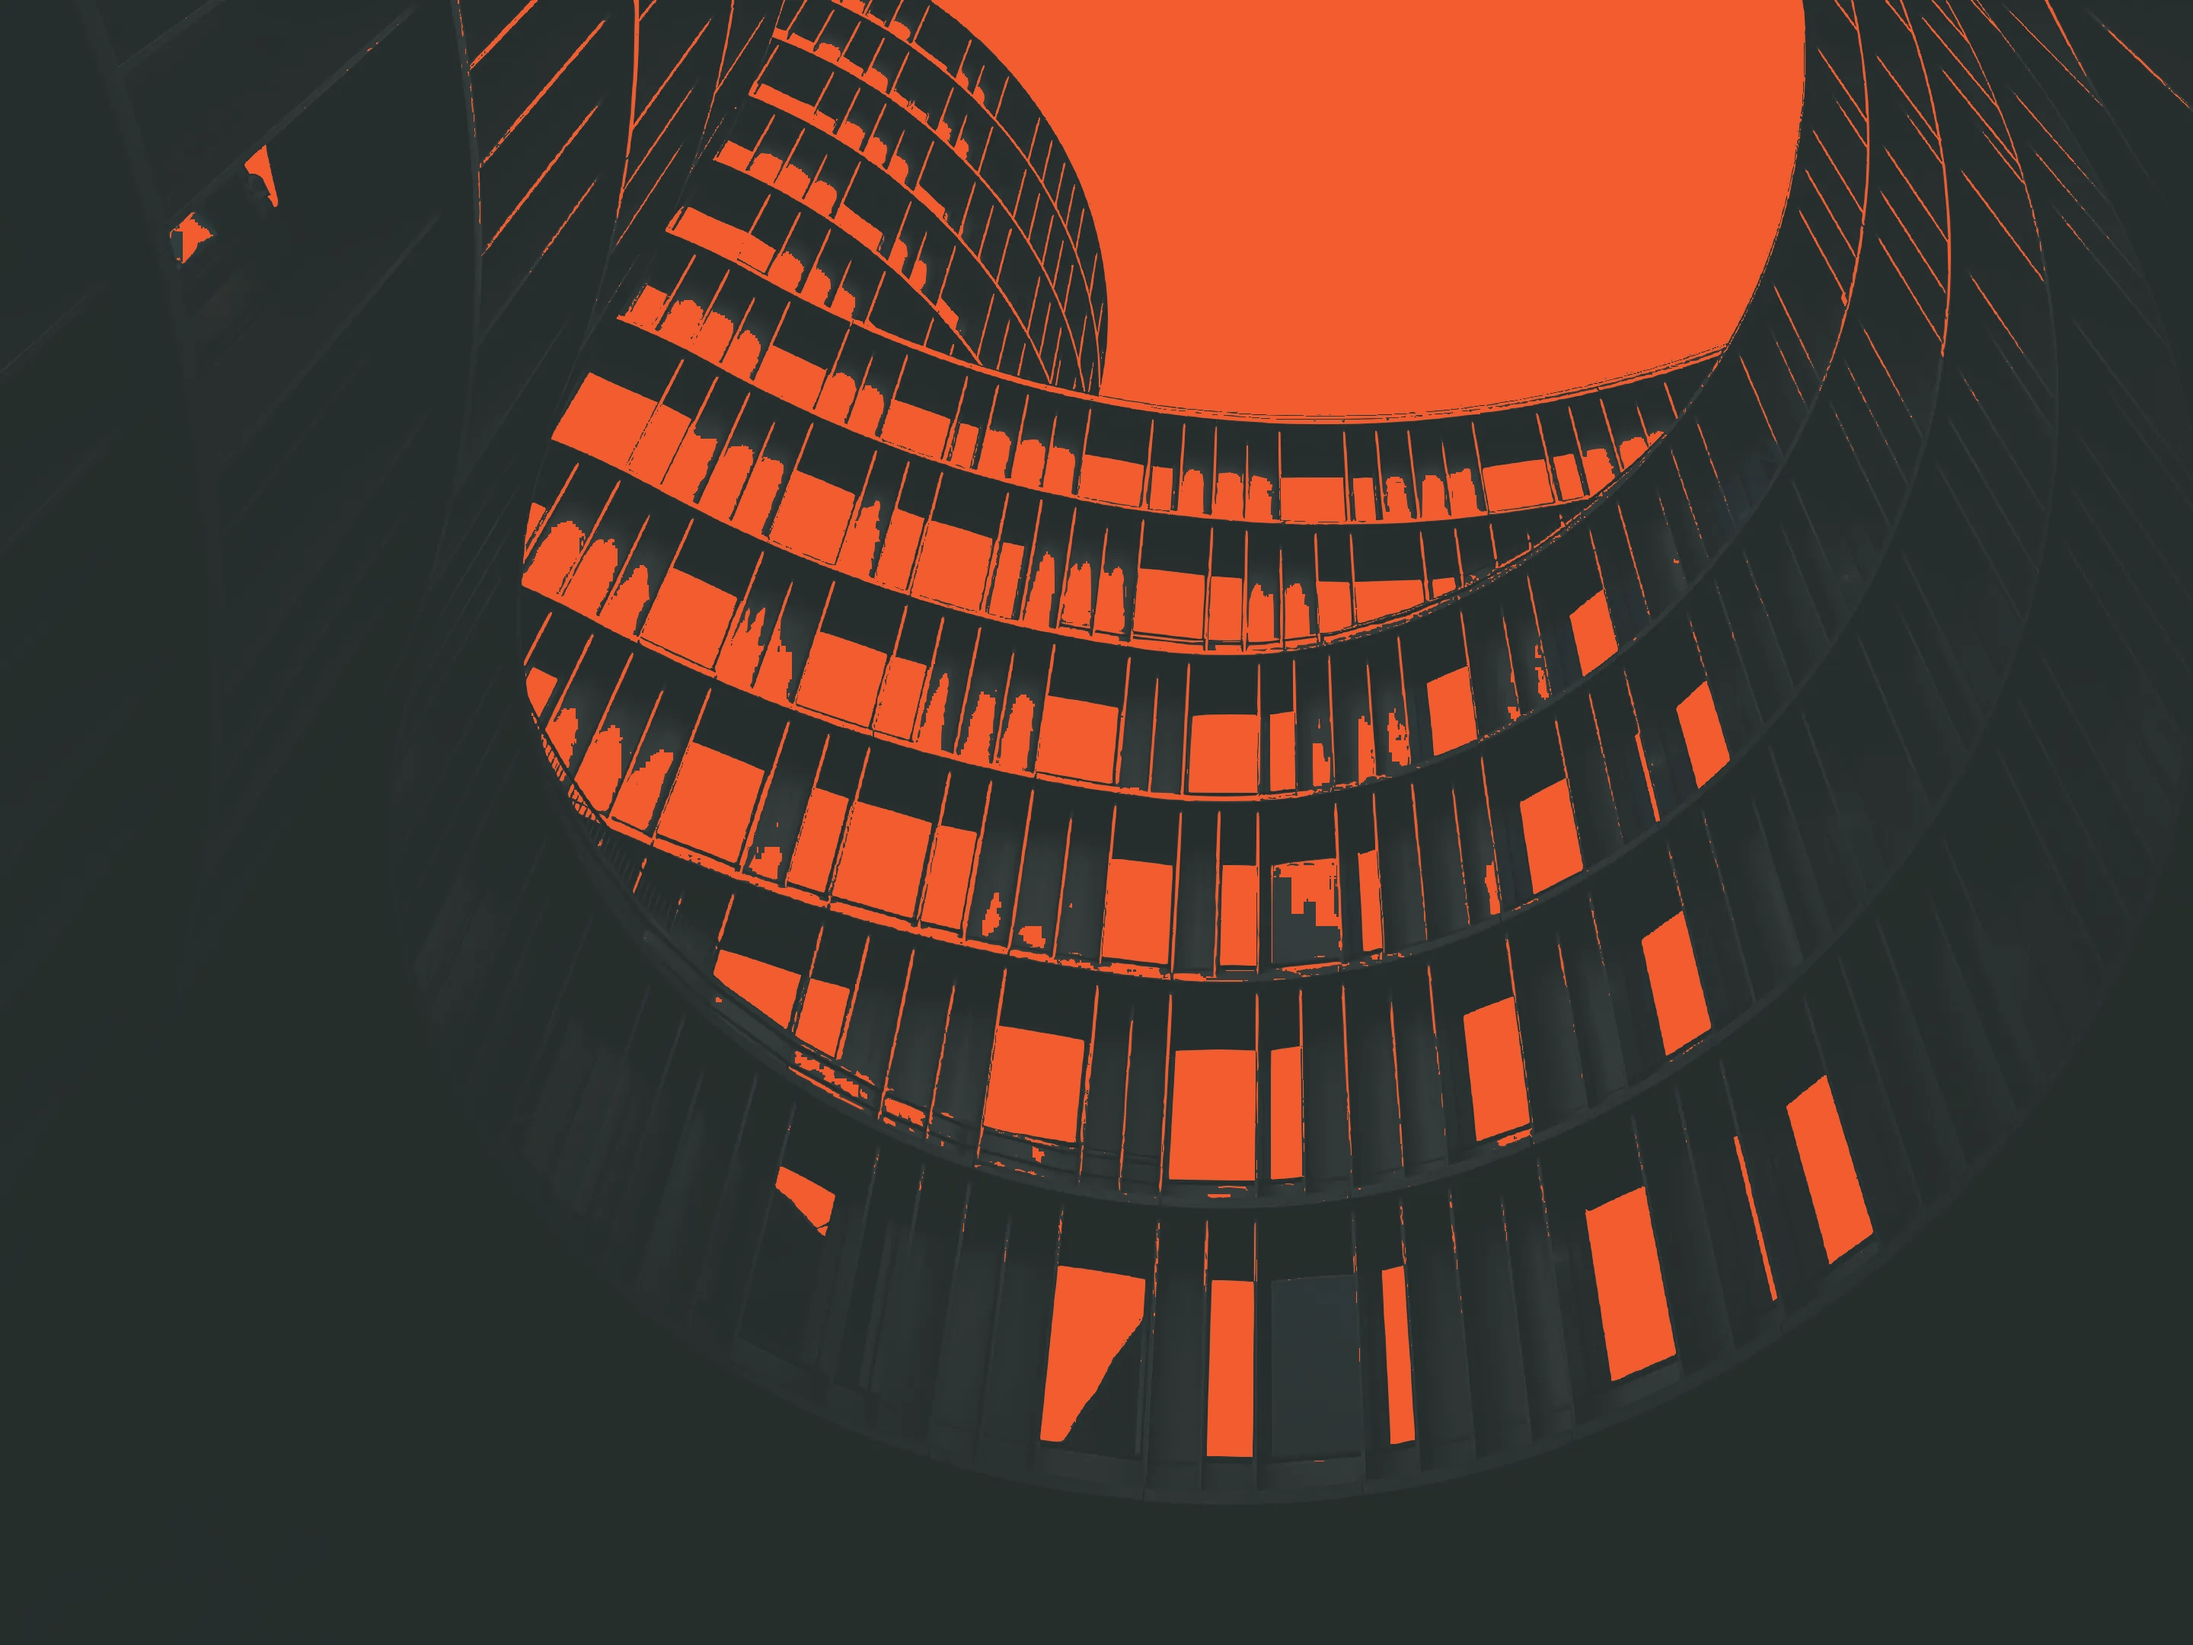
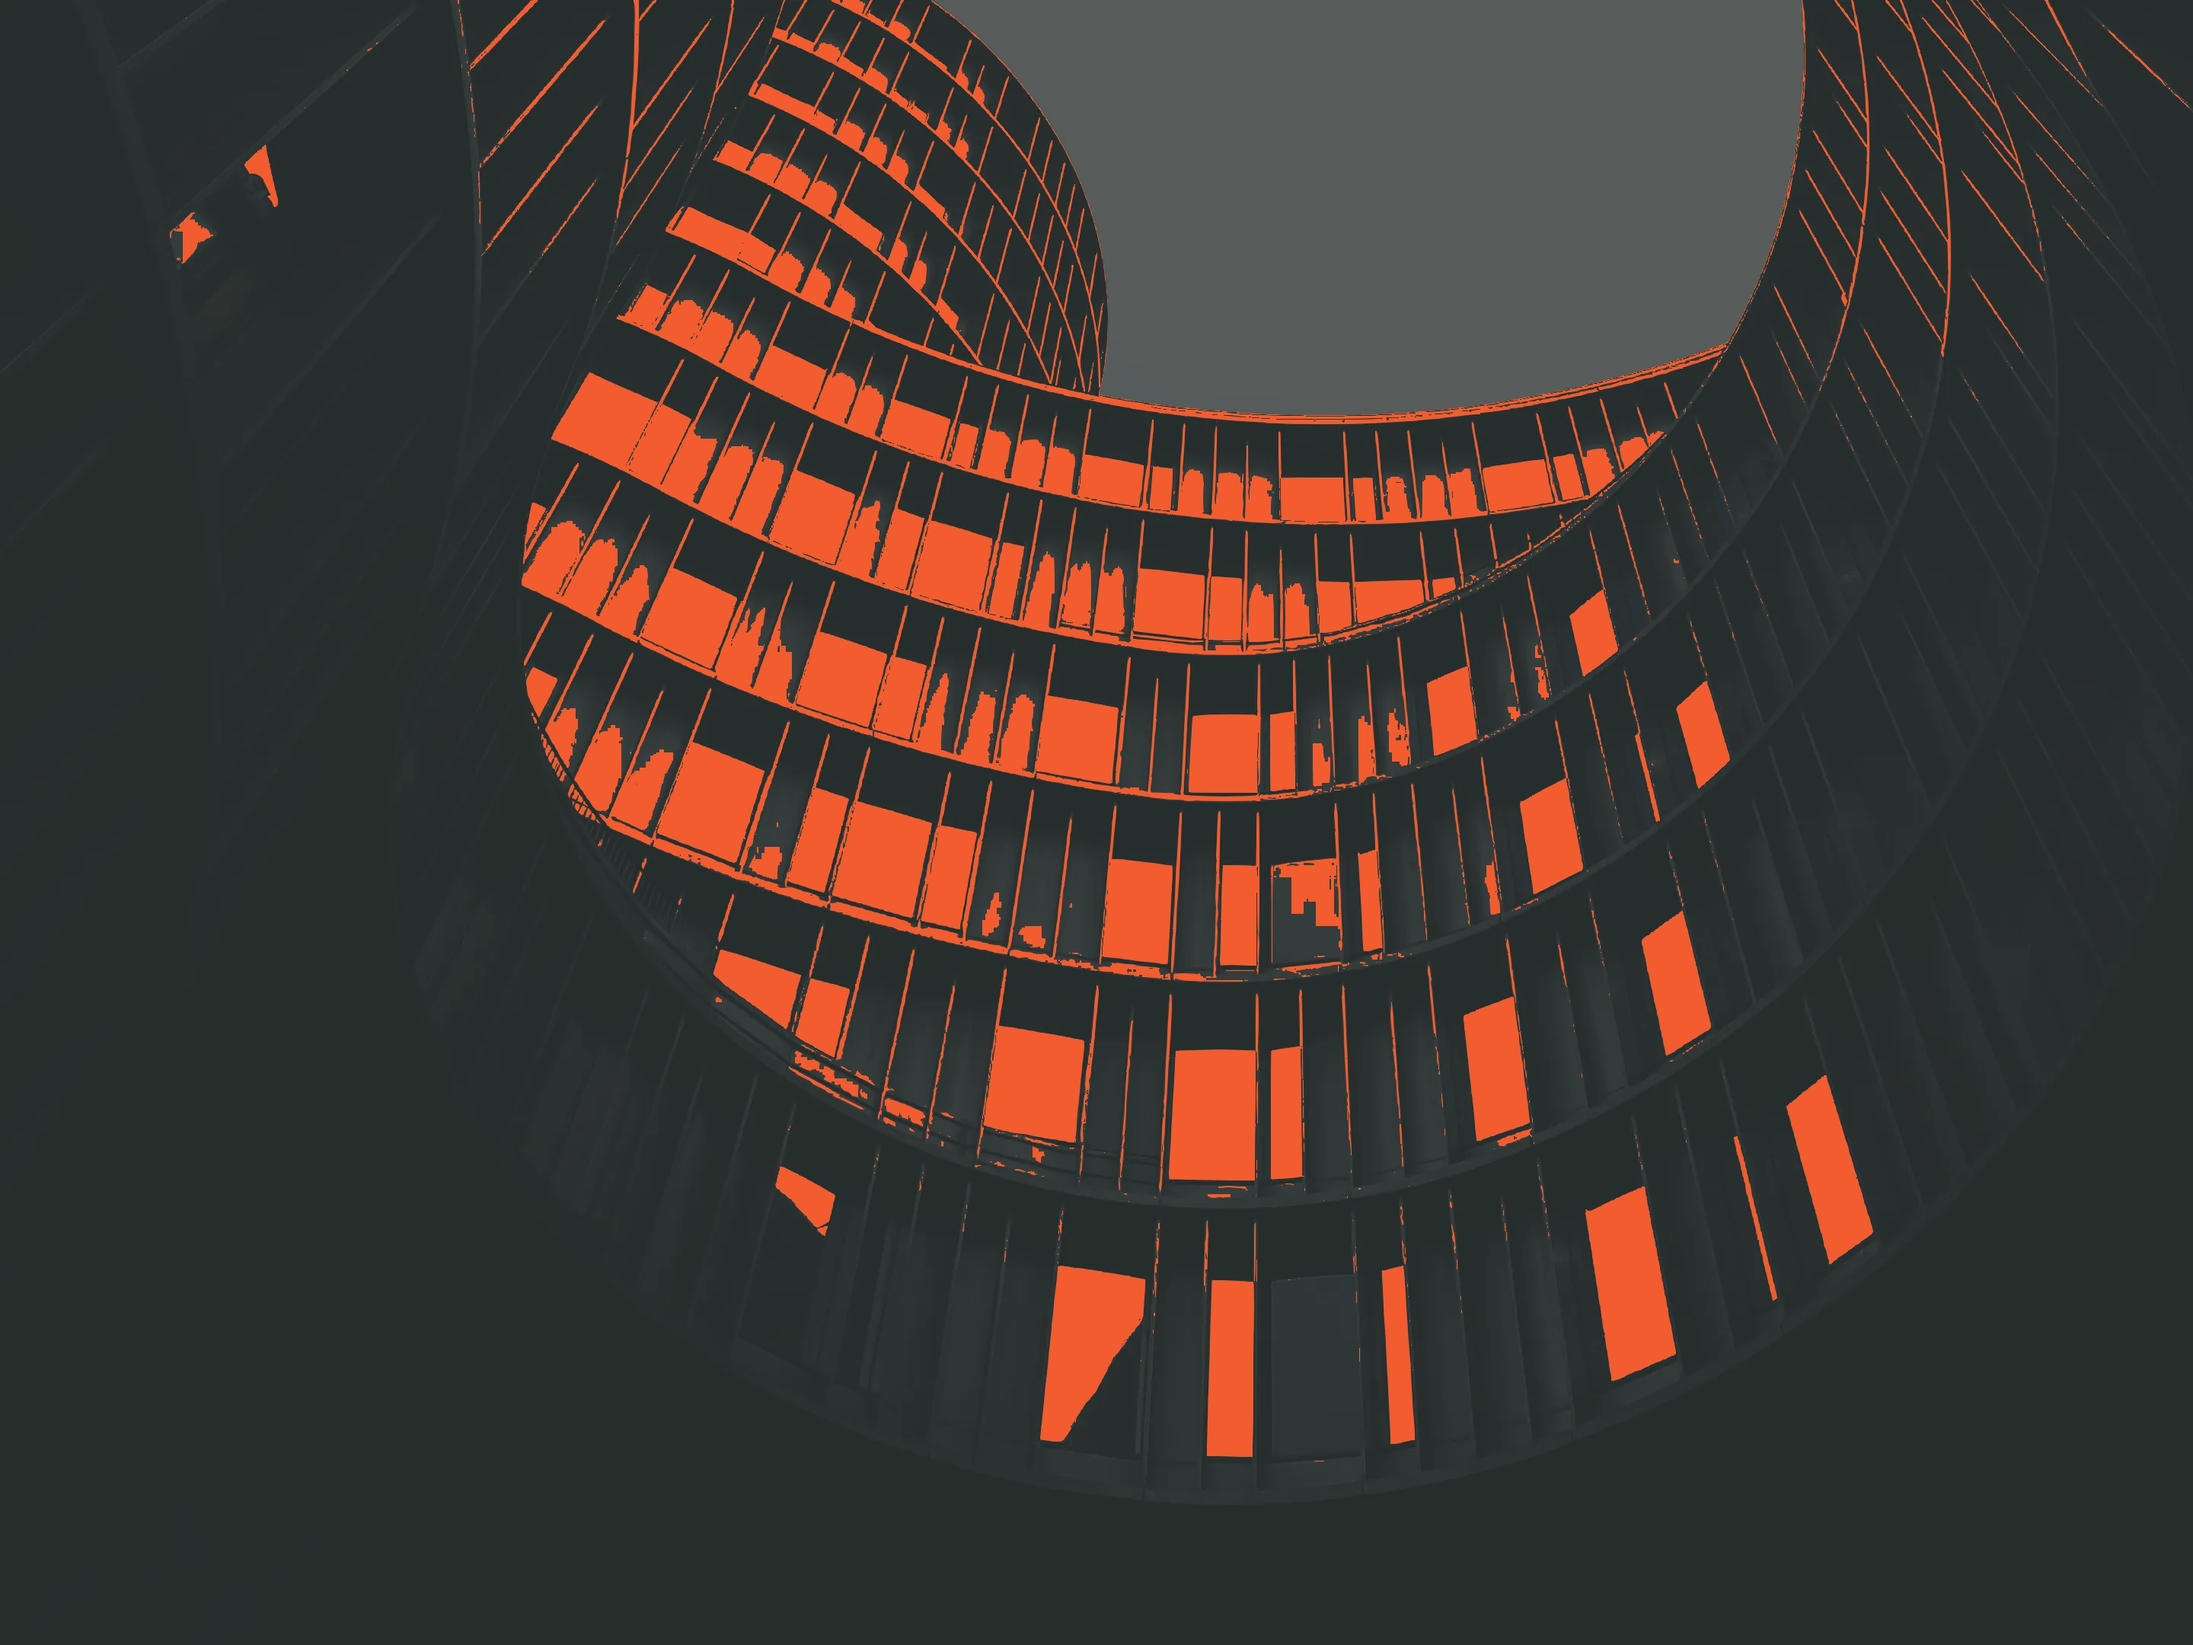
background

Changed region(s): [[0.4375, 0.0, 0.8438, 0.2792]]

diff --git a/_sass/blocks/_collab-a.scss b/_sass/blocks/_collab-a.scss
@@ -8,8 +8,8 @@
 
 // Ensure full height for collab-a layout
 body.page--collab-a {
-  height: 100%;
   min-height: 100%;
+  height: auto;
   margin: 0;
   display: flex;
   flex-direction: column;
@@ -26,7 +26,7 @@ body.page--collab-a {
   font-family: 'Poppins', sans-serif;
   letter-spacing: 0;
   background-color: #000;
-  background-image: url('/assets/img/hero/default-orange.webp');
+  background-image: url('/assets/img/hero/default-orange-few.webp');
   background-size: cover;
   background-position: center;
   background-repeat: no-repeat;
@@ -34,6 +34,7 @@ body.page--collab-a {
   overflow: visible;
   min-height: 100vh;
   min-height: 750px;
+  height: auto;
   flex: 1;
   box-sizing: border-box;
 
@@ -44,6 +45,9 @@ body.page--collab-a {
     left: 0;
     right: 0;
     bottom: 0;
+    width: 100%;
+    height: 100%;
+    min-height: 100%;
     background-color: rgba(255, 255, 255, 0);
     pointer-events: none;
     z-index: 0;
@@ -432,10 +436,37 @@ body.page--collab-a {
 
 /* Container queries (flex rows) */
 @container collab-a (width < 790px) {
+  .collab-a-header {
+    display: none;
+  }
+  
+  .collab-a-img2 {
+    left: 50%;
+    transform: translateX(-50%);
+    width: auto;
+    max-width: 255.5px;
+    top: 23.1px;
+  }
+  
+  .collab-a {
+    min-height: auto !important;
+    height: auto !important;
+  }
+  
+  .collab-a::before {
+    position: absolute;
+    top: 0;
+    left: 0;
+    right: 0;
+    bottom: 0;
+    width: 100%;
+    height: 100%;
+    min-height: 100%;
+  }
 
   .collab-a-row1 {
     margin-left: 0;
-    margin-top: 80px;
+    margin-top: 30px;
     flex-direction: row;
     align-items: flex-start;
     gap: 0;
@@ -455,13 +486,14 @@ body.page--collab-a {
 
   .footer-menu {
     flex-direction: column;
-    align-items: flex-start;
+    align-items: center;
     gap: 16.8px;
   }
   
   .home-page-menu {
-    margin-left: 40px;
-    margin-right: 0;
+    margin-left: auto;
+    margin-right: auto;
+    align-items: center;
   }
   
   .home-page-menu .collab-a-text-a:nth-child(3),
@@ -470,25 +502,36 @@ body.page--collab-a {
   }
   
   .collab-a-social-icons {
-    margin-left: 40px;
-    margin-right: 40px;
+    margin-left: auto;
+    margin-right: auto;
+    justify-content: center;
   }
 
   .footer-credits {
     flex-direction: column;
-    align-items: flex-start;
+    align-items: center;
     gap: 9.8px;
   }
   
   .reserved-blurb {
-    margin-left: 40px;
-    margin-right: 0;
+    margin-left: auto;
+    margin-right: auto;
+    text-align: center;
+    flex-direction: column;
+    align-items: center;
+    gap: 5px;
+  }
+  
+  .reserved-blurb-line1,
+  .reserved-blurb-line2 {
+    display: block;
+    white-space: nowrap;
   }
   
   .compliance-blurb {
-    margin-left: 40px;
-    margin-right: 40px;
-    text-align: left;
+    margin-left: auto;
+    margin-right: auto;
+    text-align: center;
   }
 
   .collab-a-row1 > * {
@@ -559,21 +602,30 @@ body.page--collab-a {
 @container collab-a (width < 571.9px) {
   .footer-credits {
     flex-direction: column;
-    align-items: flex-start;
+    align-items: center;
     gap: 9.8px;
   }
 
   .reserved-blurb {
-    margin-left: 40px;
-    margin-right: 0;
+    margin-left: auto;
+    margin-right: auto;
     margin-top: unset !important;
-    text-align: left;
+    text-align: center;
+    flex-direction: column;
+    align-items: center;
+    gap: 5px;
+  }
+  
+  .reserved-blurb-line1,
+  .reserved-blurb-line2 {
+    display: block;
+    white-space: nowrap;
   }
   
   .compliance-blurb {
-    margin-left: 40px;
-    margin-right: 40px;
+    margin-left: auto;
+    margin-right: auto;
     margin-top: unset !important;
-    text-align: left;
+    text-align: center;
   }
 }
